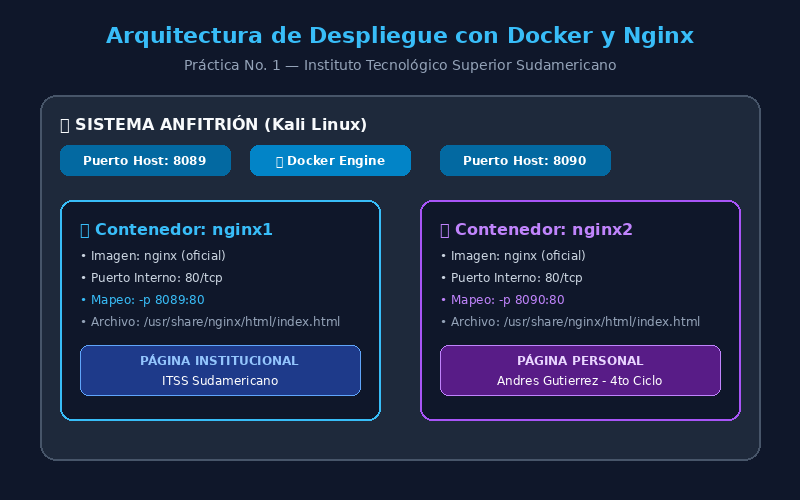
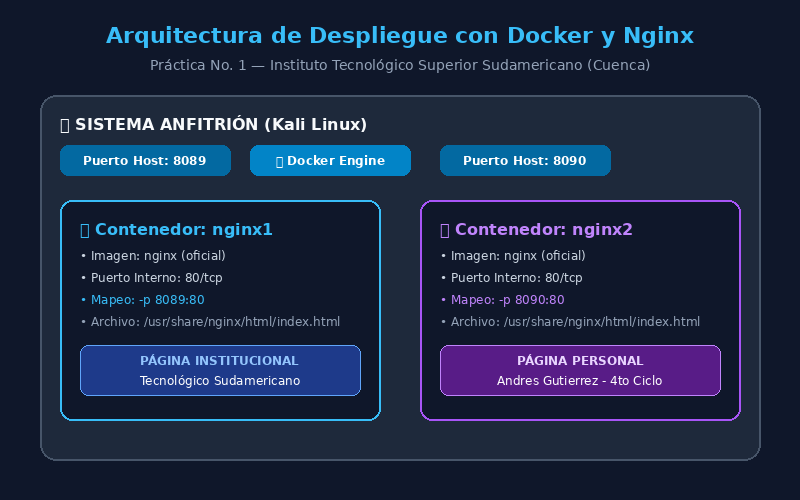
Eliminar sigla ITSS y colocar nombre completo Instituto Tecnológico Superior Sudamericano

Changed region(s): [[0.1875, 0.12, 0.8125, 0.15], [0.1562, 0.75, 0.375, 0.78]]

diff --git a/index2.html b/index2.html
@@ -159,7 +159,7 @@
             </div>
             <div class="info-item">
                 <div class="info-label">🏫 Instituto</div>
-                <div class="info-value">ITSS Sudamericano</div>
+                <div class="info-value">Instituto Tecnológico Superior Sudamericano</div>
             </div>
         </div>
         <div class="skills">

diff --git a/README.md b/README.md
@@ -3,7 +3,7 @@
 [![Práctica](https://img.shields.io/badge/Práctica-No.%201-blue.svg)](informe.md)
 [![Docker](https://img.shields.io/badge/Docker-v28.5.2-2496ED?logo=docker&logoColor=white)](https://www.docker.com/)
 [![Nginx](https://img.shields.io/badge/Nginx-Latest-009639?logo=nginx&logoColor=white)](https://nginx.org/)
-[![Instituto](https://img.shields.io/badge/Instituto-ITSS%20Sudamericano-gold.svg)](https://sudamericano.edu.ec/)
+[![Instituto](https://img.shields.io/badge/Instituto-Tecnológico%20Sudamericano-gold.svg)](https://sudamericano.edu.ec/)
 [![Autor](https://img.shields.io/badge/Autor-Andrés%20Gutiérrez-darkblue.svg)](https://github.com/DiePrivate66)
 
 Repositorio oficial de la **Práctica No. 1 — Tarea autónoma semana 1: Crear y personalizar dos servidores web con Nginx usando Docker**.
@@ -37,7 +37,7 @@ Contenedores-servidor-web/
 └── img/                             # Evidencias y diagramas
     ├── docker_architecture.png      # Diagrama de arquitectura de contenedores
     ├── nginx1_cuenca_screenshot.png # Captura de pantalla del servidor institucional (8089)
-    └── nginx2_screenshot.png        # Captura de pantalla del servidor personal (8090)
+    └── nginx2_personal_screenshot.png # Captura de pantalla del servidor personal (8090)
 ```
 
 ---
@@ -67,7 +67,7 @@ docker ps
 
 | Servidor | Puerto Host | Puerto Contenedor | Contenido | URL Local |
 |---|---|---|---|---|
-| **nginx1** | `8089` | `80` | Información institucional ITSS Sudamericano | [http://localhost:8089](http://localhost:8089) |
+| **nginx1** | `8089` | `80` | Información institucional Tecnológico Sudamericano | [http://localhost:8089](http://localhost:8089) |
 | **nginx2** | `8090` | `80` | Información personal de Andrés Gutiérrez | [http://localhost:8090](http://localhost:8090) |
 
 ---
@@ -88,4 +88,4 @@ El estudiante grabará este archivo con su propia voz para adjuntarlo a la entre
 ![nginx1](img/nginx1_cuenca_screenshot.png)
 
 ### Servidor 2 (Personal - Puerto 8090)
-![nginx2](img/nginx2_screenshot.png)
+![nginx2](img/nginx2_personal_screenshot.png)

diff --git a/informe.md b/informe.md
@@ -215,7 +215,7 @@ Servidor web que exhibe la información institucional del Instituto Tecnológico
 Servidor web que despliega la tarjeta de perfil y presentación del estudiante Andrés Gutiérrez, nivel académico y tecnologías aplicadas:
 
 <p align="center">
-  <img src="img/nginx2_screenshot.png" alt="Figura 9-2. Captura del servidor web nginx2 con información personal" width="800" />
+  <img src="img/nginx2_personal_screenshot.png" alt="Figura 9-2. Captura del servidor web nginx2 con información personal" width="800" />
 </p>
 <p align="center"><em>Figura 9-2. Servidor nginx2 (http://localhost:8090) desplegando la página personal del estudiante Andrés Gutiérrez.</em></p>
 
